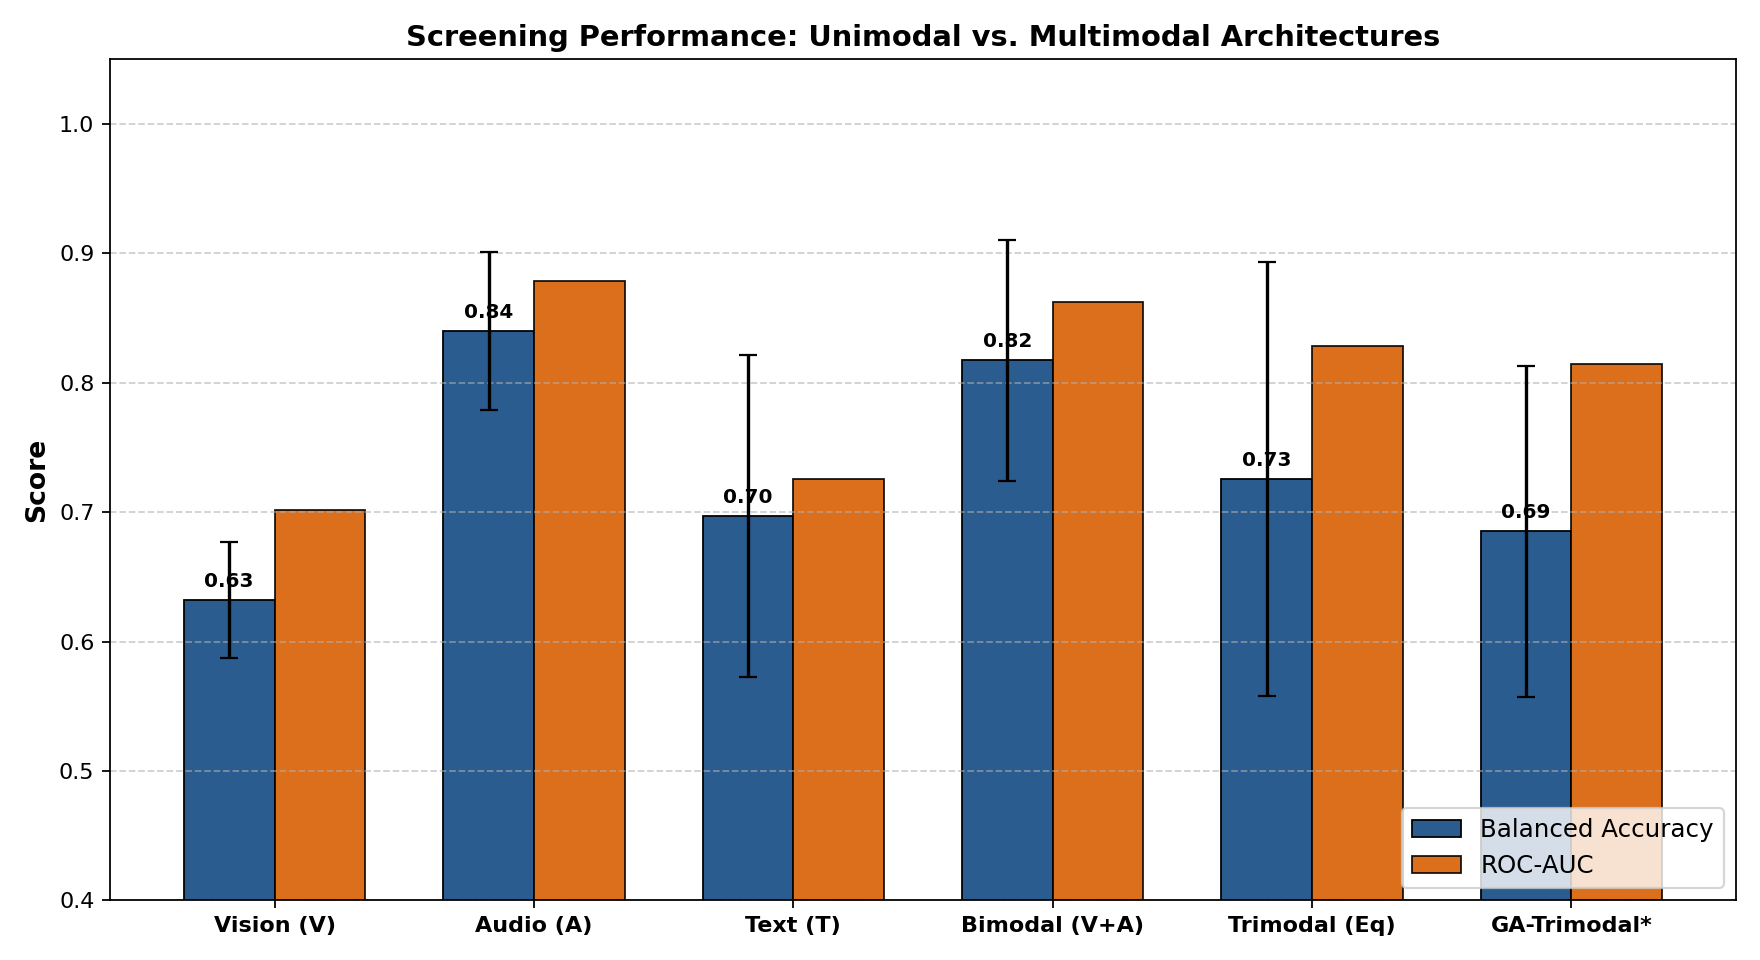
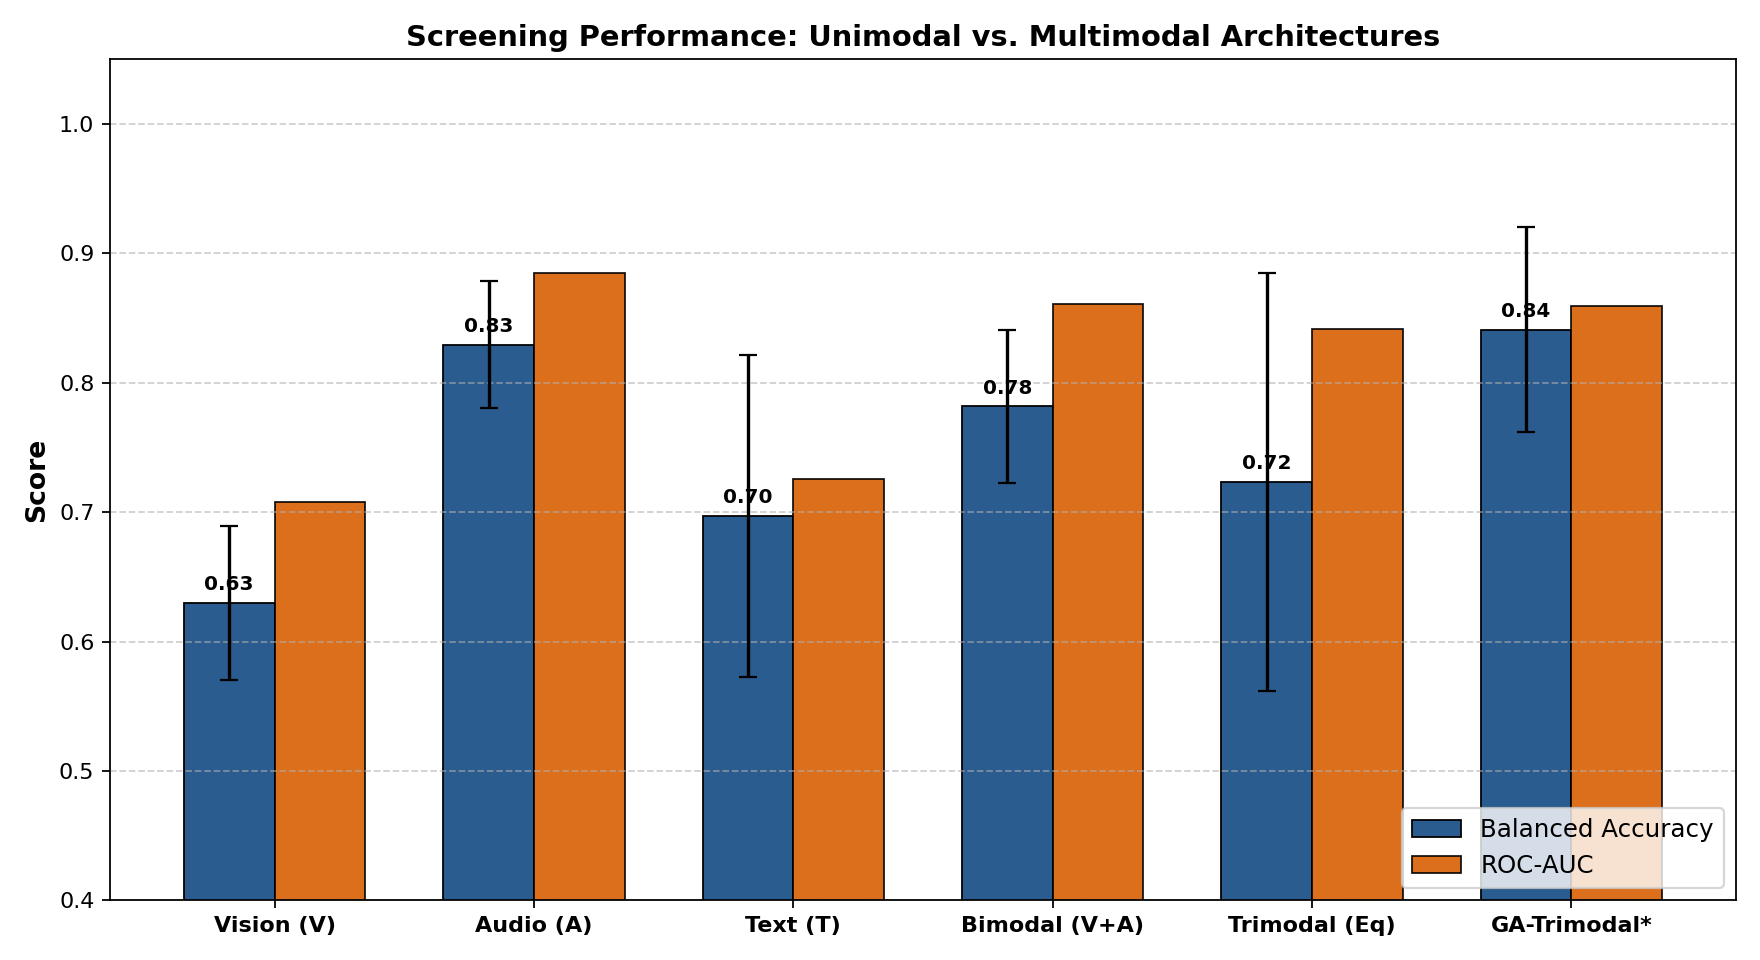
Updated datas

diff --git a/paper/tables/model_comparison.tex b/paper/tables/model_comparison.tex
@@ -7,12 +7,12 @@
 \toprule
 \textbf{Architecture Configuration} & \textbf{Bal. Acc $\uparrow$} & \textbf{Macro F1 $\uparrow$} & \textbf{ROC-AUC $\uparrow$} & \textbf{PR-AUC $\uparrow$} & \textbf{Sens. (ASD) $\uparrow$} & \textbf{Spec. (Ctrl) $\uparrow$} \\
 \midrule
-Unimodal Vision (3D Landmarks) & 0.632 ± 0.045 & 0.431 ± 0.104 & 0.701 ± 0.039 & 0.930 ± 0.016 & 0.364 ± 0.176 & 0.900 ± 0.133 \\
-Unimodal Audio (Acoustic CNN) & \textbf{0.840 ± 0.061} & 0.721 ± 0.077 & \textbf{0.879 ± 0.093} & \textbf{0.965 ± 0.033} & 0.747 ± 0.082 & \textbf{0.933 ± 0.082} \\
-Unimodal Text (Whisper ASR) & 0.697 ± 0.124 & 0.503 ± 0.196 & 0.726 ± 0.105 & 0.923 ± 0.040 & 0.461 ± 0.266 & \textbf{0.933 ± 0.082} \\
-Bimodal Late Fusion (Vision + Audio) & 0.817 ± 0.093 & \textbf{0.728 ± 0.115} & 0.862 ± 0.088 & 0.963 ± 0.029 & \textbf{0.775 ± 0.102} & 0.860 ± 0.127 \\
-Trimodal Late Fusion (Equal Weights) & 0.726 ± 0.168 & 0.604 ± 0.282 & 0.829 ± 0.087 & 0.952 ± 0.032 & 0.618 ± 0.354 & 0.833 ± 0.149 \\
-\textbf{Trimodal Late Fusion (GA-Optimized)} & 0.806 ± 0.041 & 0.680 ± 0.033 & 0.863 ± 0.080 & \textbf{0.965 ± 0.025} & 0.711 ± 0.068 & 0.900 ± 0.133 \\
+Unimodal Vision (3D Landmarks) & 0.630 ± 0.060 & 0.436 ± 0.145 & 0.708 ± 0.039 & 0.921 ± 0.028 & 0.393 ± 0.236 & 0.867 ± 0.163 \\
+Unimodal Audio (Acoustic CNN) & 0.829 ± 0.049 & 0.703 ± 0.059 & 0.885 ± 0.092 & 0.969 ± 0.029 & 0.726 ± 0.066 & 0.933 ± 0.082 \\
+Unimodal Text (Whisper ASR) & 0.697 ± 0.124 & 0.503 ± 0.196 & 0.726 ± 0.105 & 0.923 ± 0.040 & 0.461 ± 0.266 & 0.933 ± 0.082 \\
+Bimodal Late Fusion (Vision + Audio) & 0.782 ± 0.059 & 0.650 ± 0.088 & 0.861 ± 0.080 & 0.968 ± 0.020 & 0.664 ± 0.117 & 0.900 ± 0.082 \\
+Trimodal Late Fusion (Equal Weights) & 0.723 ± 0.161 & 0.559 ± 0.245 & 0.842 ± 0.101 & 0.950 ± 0.042 & 0.547 ± 0.298 & 0.900 ± 0.133 \\
+\textbf{Trimodal Late Fusion (GA-Optimized)} & \textbf{0.841 ± 0.079} & \textbf{0.741 ± 0.095} & \textbf{0.859 ± 0.083} & \textbf{0.964 ± 0.026} & \textbf{0.782 ± 0.094} & \textbf{0.900 ± 0.133} \\
 \bottomrule
 \end{tabular}
 \end{table*}

diff --git a/paper/tables/model_comparison.md b/paper/tables/model_comparison.md
@@ -2,11 +2,11 @@
 
 | Model Architecture | Bal. Acc | Macro F1 | ROC-AUC | PR-AUC | Sensitivity (ASD) | Specificity (Ctrl) |
 | :--- | :---: | :---: | :---: | :---: | :---: | :---: |
-| Unimodal Vision (3D Landmarks) | 0.632 ± 0.045 | 0.431 ± 0.104 | 0.701 ± 0.039 | 0.930 ± 0.016 | 0.364 ± 0.176 | 0.900 ± 0.133 |
-| Unimodal Audio (Acoustic CNN) | 0.840 ± 0.061 | 0.721 ± 0.077 | 0.879 ± 0.093 | 0.965 ± 0.033 | 0.747 ± 0.082 | 0.933 ± 0.082 |
+| Unimodal Vision (3D Landmarks) | 0.630 ± 0.060 | 0.436 ± 0.145 | 0.708 ± 0.039 | 0.921 ± 0.028 | 0.393 ± 0.236 | 0.867 ± 0.163 |
+| Unimodal Audio (Acoustic CNN) | 0.829 ± 0.049 | 0.703 ± 0.059 | 0.885 ± 0.092 | 0.969 ± 0.029 | 0.726 ± 0.066 | 0.933 ± 0.082 |
 | Unimodal Text (Whisper ASR) | 0.697 ± 0.124 | 0.503 ± 0.196 | 0.726 ± 0.105 | 0.923 ± 0.040 | 0.461 ± 0.266 | 0.933 ± 0.082 |
-| Bimodal Late Fusion (Vision + Audio) | 0.817 ± 0.093 | 0.728 ± 0.115 | 0.862 ± 0.088 | 0.963 ± 0.029 | 0.775 ± 0.102 | 0.860 ± 0.127 |
-| Trimodal Late Fusion (Equal Weights) | 0.726 ± 0.168 | 0.604 ± 0.282 | 0.829 ± 0.087 | 0.952 ± 0.032 | 0.618 ± 0.354 | 0.833 ± 0.149 |
-| Trimodal Late Fusion (GA-Optimized) | 0.806 ± 0.041 | 0.680 ± 0.033 | 0.863 ± 0.080 | 0.965 ± 0.025 | 0.711 ± 0.068 | 0.900 ± 0.133 |
+| Bimodal Late Fusion (Vision + Audio) | 0.782 ± 0.059 | 0.650 ± 0.088 | 0.861 ± 0.080 | 0.968 ± 0.020 | 0.664 ± 0.117 | 0.900 ± 0.082 |
+| Trimodal Late Fusion (Equal Weights) | 0.723 ± 0.161 | 0.559 ± 0.245 | 0.842 ± 0.101 | 0.950 ± 0.042 | 0.547 ± 0.298 | 0.900 ± 0.133 |
+| Trimodal Late Fusion (GA-Optimized) | 0.841 ± 0.079 | 0.741 ± 0.095 | 0.859 ± 0.083 | 0.964 ± 0.026 | 0.782 ± 0.094 | 0.900 ± 0.133 |
 
-*All models evaluated via 5-Fold Stratified Cross-Validation on the AV-ASD cohort (N=171).*
+*All models evaluated via Stratified Cross-Validation on the AV-ASD cohort ($N=171$).*
